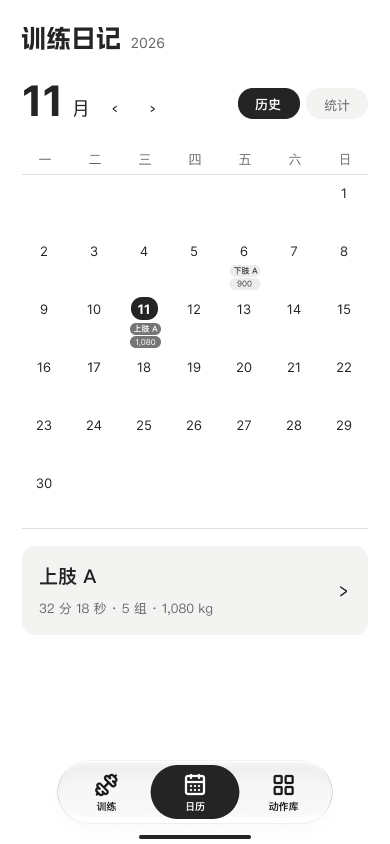
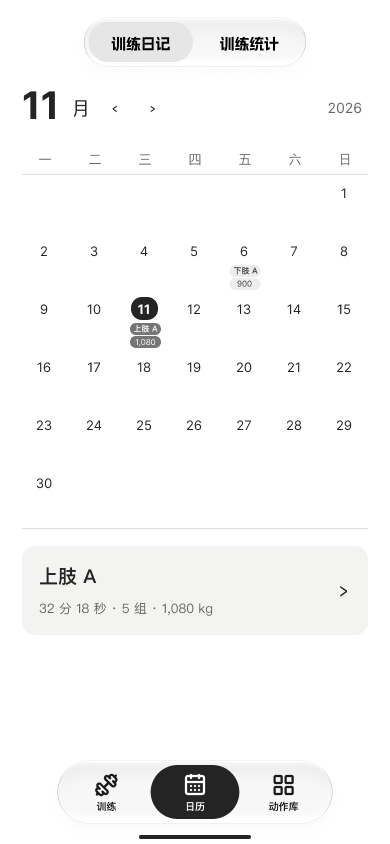
对齐日记与统计切换及周期选择

diff --git a/docs/设计日志/健身/新窗口交接.md b/docs/设计日志/健身/新窗口交接.md
@@ -6,13 +6,15 @@
 
 11 月 13 日核对，线上健身版本为 **1.11.7**，服务器 `current` 指向 `20261112-07`，公网健康检查通过。上轮定稿、代码和可编辑原型均在 `main` 的 `a4901b1`。上轮发布已结束，下一轮范围由用户指定。
 
-1. **接设计**：先用 Figwright 核对 Figma EX 的 `foilo-健身页面` →「手机端」→「5.训练中」（`34:15937`）。本轮已在实时画布核对用户删减后保留的 24 张整屏稿，移除模拟系统状态栏并按首页约 27 px 的可见顶距调整。日记周行距 58 px，年份紧邻标题；卧推训练状态补齐动作备注。云端同步尚未验证。仓库的 .fig 副本早于这轮删减；换设备时仅用[可编辑副本](原型/foilo-健身页面.fig)与现稿比对，保留用户后续手改。
+1. **接设计**：先用 Figwright 核对 Figma EX 的 `foilo-健身页面` →「手机端」→「5.训练中」（`34:15937`）。本轮已在实时画布核对用户删减后保留的 24 张整屏稿，移除模拟系统状态栏并按首页约 27 px 的可见顶距调整。日记周行距 58 px，年份在月份行右侧；卧推训练状态补齐动作备注。云端同步尚未验证。仓库的 .fig 副本早于这轮删减；换设备时仅用[可编辑副本](原型/foilo-健身页面.fig)与现稿比对，保留用户后续手改。
 2. **接代码**：开练预览在 [gym-app.tsx](../../../components/gym/gym-app.tsx)，训练布局和上次记录入口在 [workout-ledger.tsx](../../../components/gym/workout-ledger.tsx)，逐组录入在 [training-set.tsx](../../../components/gym/training-set.tsx)。手机端用于记录训练，桌面端默认进入统计。
 3. **接发布**：先核对服务器当前业务发布号，从「端与发布」所列服务器交接目录下载匹配的完整源码包并校验 SHA-256，在独立目录合入改动。GitHub 主仓用于同步本轮文件和记录。业务部署使用 `scripts/deploy-remote.sh`。
 
 ## 动作库设计评审
 
 用户选定 B 部位索引，已同步到 02 动作库（15:1514）。左侧胸部展开全部、上胸、胸中部、下胸，右侧为筛选列表，三项半透明底栏叠在内容上。胸部切换状态在 48:5213。训练总结三款候选位于 48:5214，待选择；原 06 留作比较。右侧新建多选（15:2105）、计划追加（15:6074）、临时追加（15:2603）沿用部位索引与动作列表；卧推详情（15:1750）使用 Gym visual 0025。辅助勾选状态集中在「选动作 · 勾选交互状态」，用于演示计数、命名及追加回跳。此次仅修改设计。
+
+07、08 页顶部沿用用户手调的居中双段切换栏。周／月统计采用浅灰轨道和白色选中块，已同步现有 6 日、10 日日记与本周统计状态。
 
 ## 上一轮已交付
 

diff --git a/docs/设计日志/健身/设计与写作规则.md b/docs/设计日志/健身/设计与写作规则.md
@@ -66,8 +66,10 @@
 
 ## 手机端原型页首与日历
 
-整屏稿省去模拟系统时间、信号与电池，以 01 首页顶部 GYM 标志的可见边距（约 27 px）校准页首。日历年份紧邻「训练日记」标题；六周按 58 px 行距排列。日期数字、选中底、训练标签及相应点击区随所在周对齐。
+整屏稿省去模拟系统时间、信号与电池，以 01 首页顶部 GYM 标志的可见边距（约 27 px）校准页首。日历年份在月份行右侧；训练日记与统计共用顶部居中双段切换栏；六周按 58 px 行距排列。日期数字、选中底、训练标签及相应点击区随所在周对齐。
 
 ## 动作主数据的同步来源
 
 用户指定本机「已选动作肌群分类.html」为动作主数据来源。用户提出同步时，以四位动作编号关联名称、分类、器械、媒体和肌群档位，读取基础记录并叠加用户实际编辑页面所在浏览器保存的逐动作修改（folio-muscle-tags-v1:编号）。跨浏览器接手时须取得该浏览器的有效记录，单读 HTML 无法确认编辑后的标签。用户选图、修改标签或讨论设计时不触发生产同步。
+
+原型优先复用已有画板，保留表达主要流程或关键差异所需的状态。纯样式调整直接同步主稿与现有状态。

diff --git a/docs/设计日志/健身/设计日志.md b/docs/设计日志/健身/设计日志.md
@@ -230,3 +230,7 @@ Linux x64 / Node 22 测试、类型检查、构建及登录回跳冒烟通过。
 ## 2026-11-13-11｜动作库的任务原型
 
 实时核对删减与手改后的画布，在原节点内调整三个选动作流程和卧推详情。新建演示三项的八种组合，追加和临时追加各演示两项的四种组合。右侧原型用普通画板连线；本文件当前 Figma 套餐拒绝在原型点击时修改变量。读回核对 81 条选择及完成连线目标；未逐条在演示模式中点击。卧推详情连接到动作库可见的平板杠铃卧推行，计划编辑列表同步卧推、下拉、划船图。普通平板支撑使用计时图位。四张预览保存在本机下载目录「Folio-Gym-visual-7455efa/选动作流程评审」。
+
+## 2026-11-13-12｜日记、统计与周期切换
+
+复用 07／08 手调玻璃切换栏，在 390 px 画板水平居中，文字行框与标签居中。统计选中右项。右对齐的周／月选择共用浅灰轨道，月、周两页指标卡对齐。同步右侧既有三个状态，核对 7 条跳转目标，本轮新增画板 0 张。
